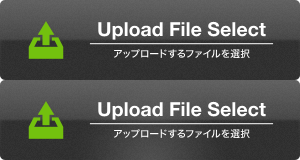
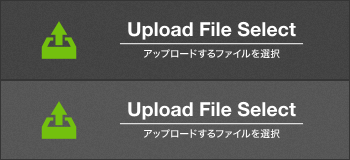
なんかまぁ

diff --git a/js/upload.js b/js/upload.js
@@ -5,7 +5,7 @@ $(function(){
 	var userAgent = window.navigator.userAgent.toLowerCase();
 	// if firefox (labelをクリックしてもfile選択ダイアログがでない場合)
 	if (userAgent.indexOf("firefox") != -1 || userAgent.indexOf('gecko') != -1) {
-		$(".file_select label").click(function (e) {
+		$("#file_select label").click(function (e) {
 				$("#" + $(this).attr("for")).click();
 				return false;
 		});
@@ -13,10 +13,29 @@ $(function(){
 	
 	$("#debug").text("ファイルを選択してください");
 	
+	// ファイルが選択されたら
 	$("#file").change(function(){
-		// 値の取得
-		var val  = $(this).val();
-		judgeExtension(val);
+		// 値を取得
+		var val = $(this).val();
+		// ファイル名
+		var name = val.split(/[\\|/]/g).pop();
+		// 拡張子
+		var ext  = name.split(".").pop().toLowerCase();
+		
+		//
+		$("#extra_input").slideDown();
+		$("#file_select").slideUp();
+		
+		
+		// 拡張子による必須入力項目のハイライトなど
+		judgeExtension(ext);
+	});
+	
+	// クリアボタンが押されたら
+	$(".clear").click(function(){
+		$("#upload")[0].reset();
+		$("#extra_input").slideUp();
+		$("#file_select").slideDown();
 	});
 	
 	// FormDataとFileAPIに対応していれば
@@ -30,33 +49,21 @@ $(function(){
 	
 });
 
-function judgeExtension(val)
+function judgeExtension(ext)
 {
-	// ファイル名
-	var name = val.split(/[\\|/]/g).pop();
-	// 拡張子
-	var ext  = name.split(".").pop().toLowerCase();
-	
-	$("#debug").text("ファイル名: " + name);
-	
 	// アップロードできる拡張子の一覧表を取得
 	$.getJSON("/setting/acceptExt.json", function(json){
-		var extinfo = null;
+		var info = null;
 		// 対応している拡張子かチェック
 		$.each(json.acceptExt, function(index, val){
-			if (val.ext == ext) extinfo = val;
+			if (val.ext == ext) info = val;
 		});
-		if ( extinfo ) {
-			if ( extinfo.pwd ) {
-				$("#debug").append("[パスワード必須]");
-			}
-			if ( extinfo.conv ) {
-				$("#debug").append("[拡張子が ."+extinfo.conv+" に変換されます]");
-			}
+		
+		// 本来はreturnしたいけど非同期通信なのでココに描きます
+		if ( info == null ) {
+			
 		}
-		else {
-			$("#debug").append("[対応してない拡張子です]");
-		}
+		
 	});
 }
 
@@ -106,6 +113,9 @@ function uploadModernBrowser()
 
 function uploadLegacyBrowser()
 {
+	// 警告を表示
+	$("#alert_legacy").show();
+	
 	// iframeをつかった擬似ajaxアップロードに対応する
 	$("#upload").attr("target", "iframe_upload");
 	

diff --git a/index.html b/index.html
@@ -10,7 +10,9 @@
  
 </head>
 <body>
-<h1>ファイルアップロードのテスト</h1>
+<header>
+<h1><a href="http://fox.jeez.jp/"><img src="/img/logo.png" alt="狐のあっぷろーだー"></a></h1>
+</header>
 
 <div class="failed" id="alert_legacy">
 <h6>現在お使いのブラウザーは当アップローダのすべての機能をご利用になれません</h6>
@@ -20,13 +22,21 @@
 
 
 <form action="upload.cgi" method="POST" enctype="multipart/form-data" id="upload">
- <div class="file_select">
+ <div id="file_select">
   <input type="file" name="file" id="file">
-   <label for="file">
-    <div class="button"><!-- 画像ボタン用div --></div>
-   </label>
-  </div>
- <a href="javascript:void(0);" id="submit">ファイルを投稿する</a>
+  <label for="file">
+   <span class="button"><!-- 画像用 --></span>
+  </label>
+ </div>
+ <div id="extra_input">
+ <table>
+  <tr><td>ファイル名</td><td><span id="filename"></span></td></tr>
+  <tr><td>コメント</td><td><input type="text" name="comment"></td></tr>
+  <tr><td>DLPass</td><td><input type="text" name="dlpass"></td></tr>
+  <tr><td>パスワード(削除用)</td><td><input type="password" name="rmpass"></td></tr>
+ </table>
+ <a href="javascript:void(0);" id="submit">ファイルを投稿する</a> <a href="javascript:void(0);" class="clear">クリア</a>
+ </div>
 </form>
 
 <!-- 画面移換なしでアップロードするためのiframe -->

diff --git a/css/default.css b/css/default.css
@@ -5,7 +5,27 @@
 		'ヒラギノ角ゴ Pro W3','Hiragino Kaku Gothic Pro', Sans-serif;
 }
 
-.file_select #file {
+body {
+	margin: 0;
+	padding: 0;
+}
+
+header {
+	display: block;
+	width: 100%;
+	margin: 0;
+	padding: 0 50px;
+	height: 50px;
+	background: #EEE;
+}
+
+header h1 {
+	margin: 0;
+	padding: 0;
+	line-height: 50px;
+}
+
+#file_select #file {
 	width: 0;
 	height: 0;
 	position: absolute;
@@ -16,14 +36,14 @@
 	opacity: 0;
 }
 
-.file_select label {
+#file_select label {
 	overflow: hidden;
 	padding: 0;
 }
 
 .button {
 	display: inline-block;
-	width: 300px;
+	width: 350px;
 	height: 80px;
 	background-image: url('/img/upload_button.png');
 	background-position: left top;
@@ -32,6 +52,13 @@
 .button:hover {
 	background-position: left bottom;
 }
+
+#extra_input {
+	display: none;
+}
+
+
+
 
 .failed {
 	margin: 1em 0;
